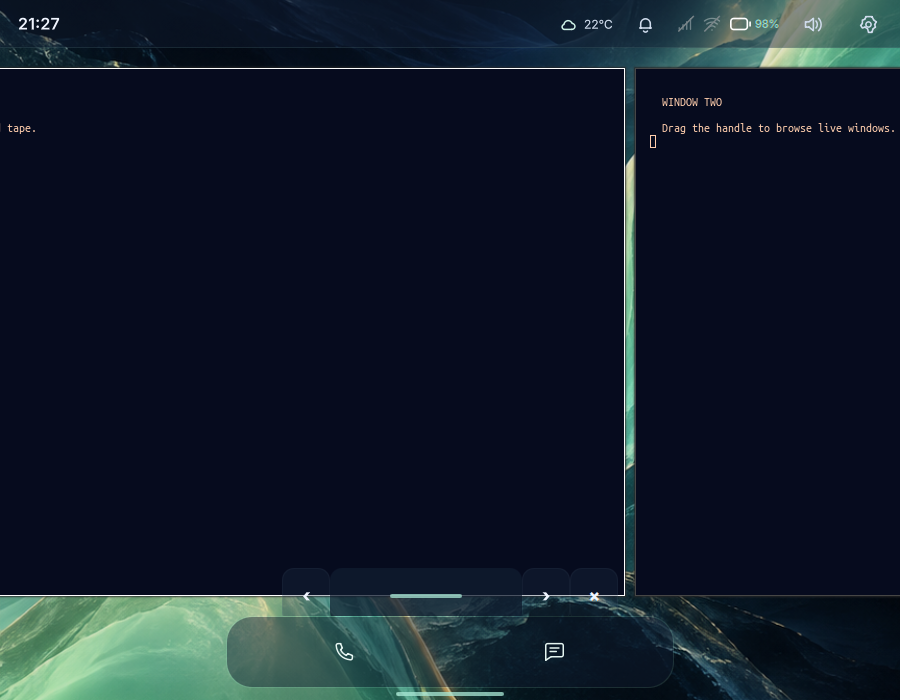
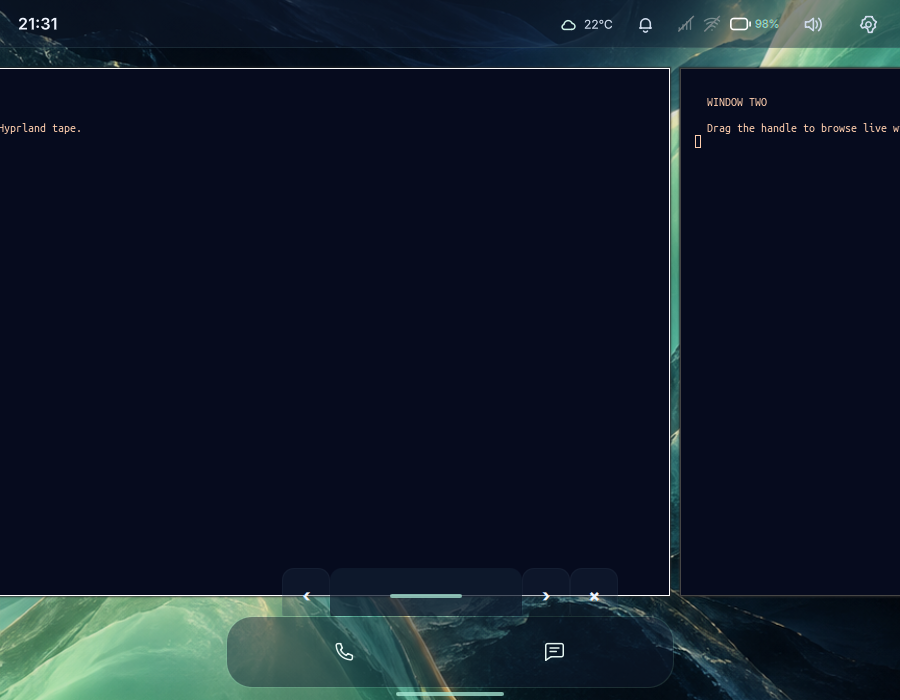
Record window tape prototype source and runtime capture

Changed region(s): [[0.6844, 0.09, 1.0, 0.87], [0.0, 0.18, 0.0933, 0.21], [0.0311, 0.03, 0.0622, 0.06]]

diff --git a/docs/testing.md b/docs/testing.md
@@ -2374,3 +2374,6 @@ checks in [the proposal](window-tape-proposal.md).
 tests, plus syntax/lint and Hyprland session/greeter config verification. Fish
 and ShellCheck were unavailable. QML lint retained the existing FilePicker
 PanelWindow creatability warning. `git diff --check` passed.
+
+Tested implementation revision: `2dc361a`. The mid-drag capture was refreshed
+from that source after the full checks passed.
